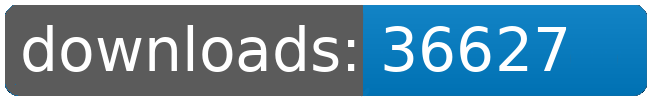
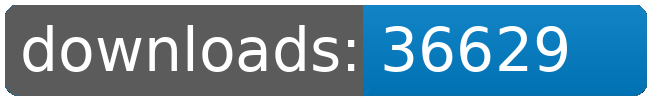
dl log written

Changed region(s): [[0.8, 0.24, 0.8923, 0.72]]

diff --git a/README.md b/README.md
@@ -43,8 +43,8 @@
 		<td>5421</td>
 		<td>5435</td>
 		<td>5452</td>
-		<td>5463</td>
-		<td>+ 11</td>
+		<td>5464</td>
+		<td>+ 12</td>
 	</tr>
 	<tr>
 		<td>Jaws</td>
@@ -65,8 +65,8 @@
 		<td>4432</td>
 		<td>4447</td>
 		<td>4464</td>
-		<td>4475</td>
-		<td>+ 11</td>
+		<td>4476</td>
+		<td>+ 12</td>
 	</tr>
 	<tr>
 		<td>Louise.Conglomerate.Shipyards</td>
@@ -109,8 +109,8 @@
 		<td></td>
 		<td></td>
 		<td></td>
-		<td>36627</td>
-		<td>87</td>
+		<td>36629</td>
+		<td>89</td>
 	</tr>
 </table>
 </sub></sup>
@@ -135,8 +135,8 @@
 		<td>5421</td>
 		<td>5435</td>
 		<td>5452</td>
-		<td>5463</td>
-		<td>+ 11</td>
+		<td>5464</td>
+		<td>+ 12</td>
 	</tr>
 	<tr>
 		<td>Louise.Conglomerate.Shipyards</td>
@@ -157,8 +157,8 @@
 		<td>4432</td>
 		<td>4447</td>
 		<td>4464</td>
-		<td>4475</td>
-		<td>+ 11</td>
+		<td>4476</td>
+		<td>+ 12</td>
 	</tr>
 	<tr>
 		<td>Bunsen.Burner</td>
@@ -223,8 +223,8 @@
 		<td></td>
 		<td></td>
 		<td></td>
-		<td>36627</td>
-		<td>87</td>
+		<td>36629</td>
+		<td>89</td>
 	</tr>
 </table>
 </sub></sup>
